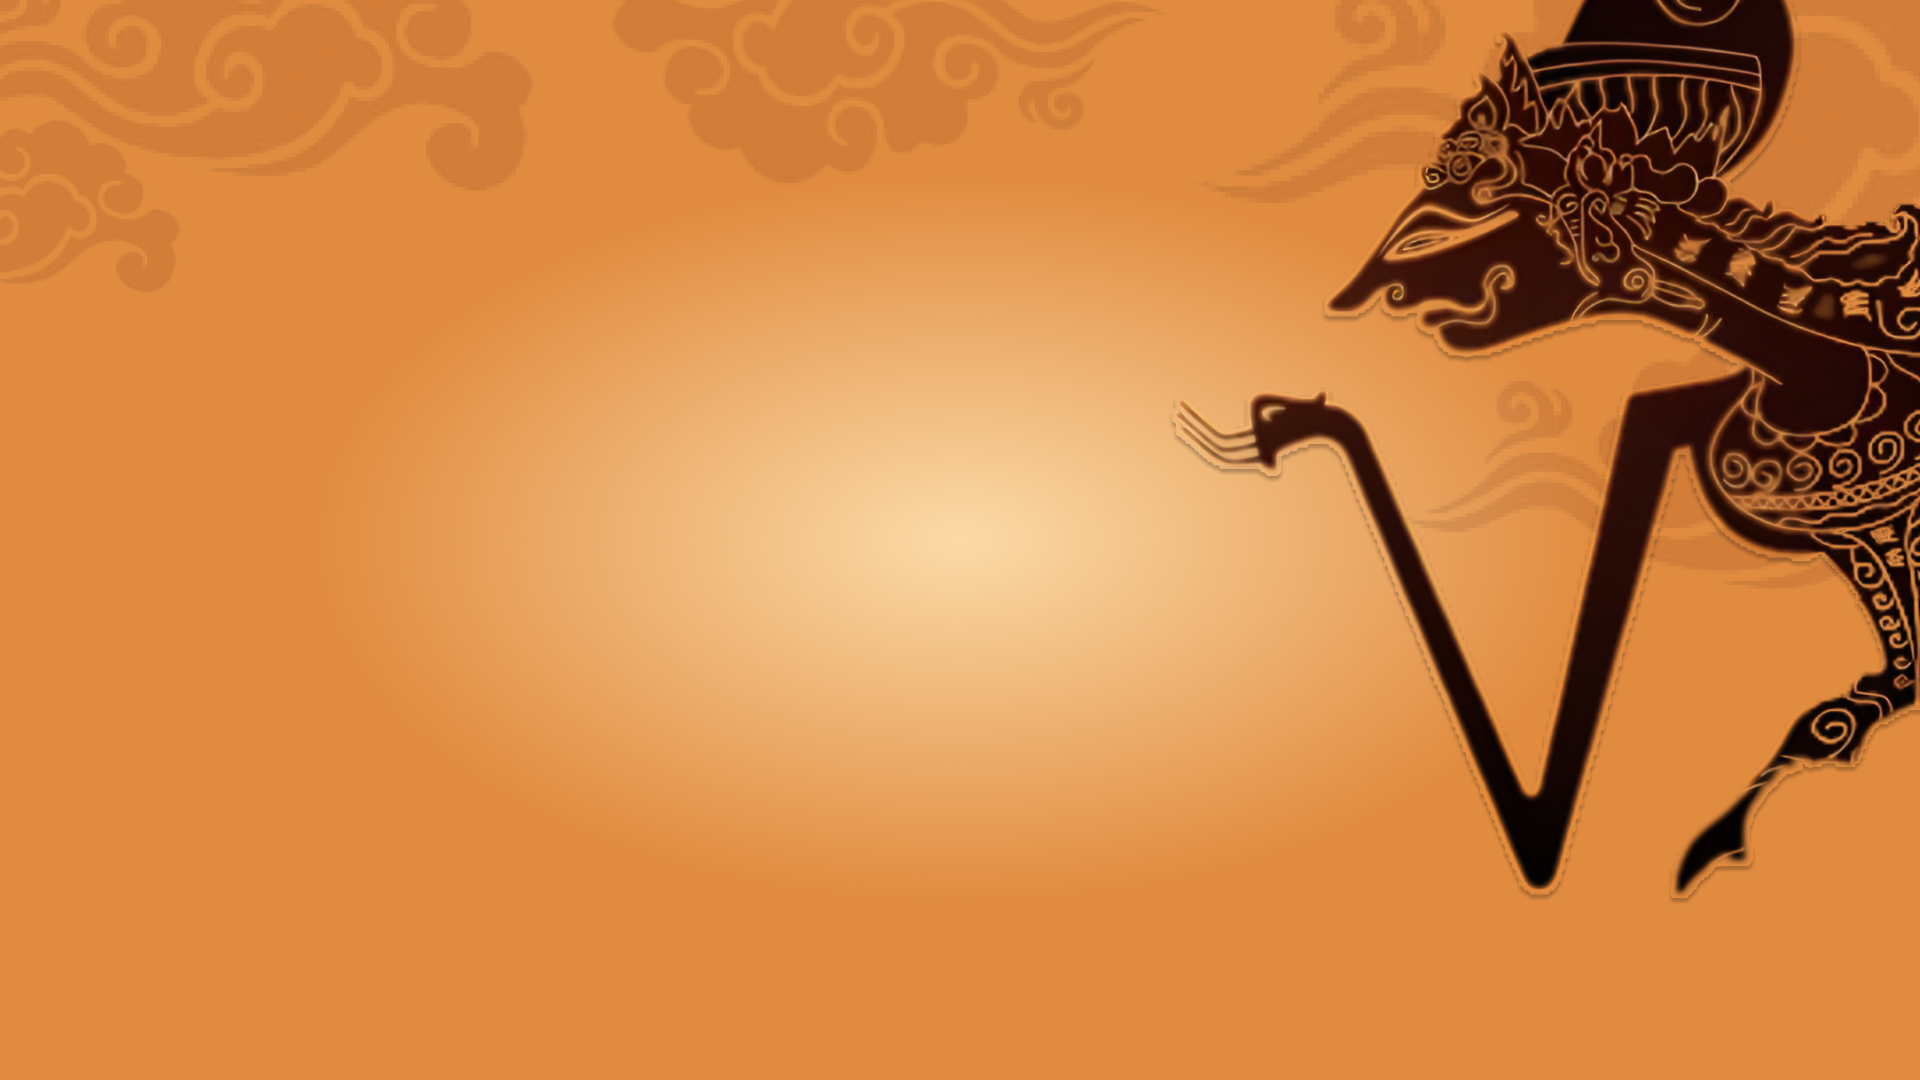
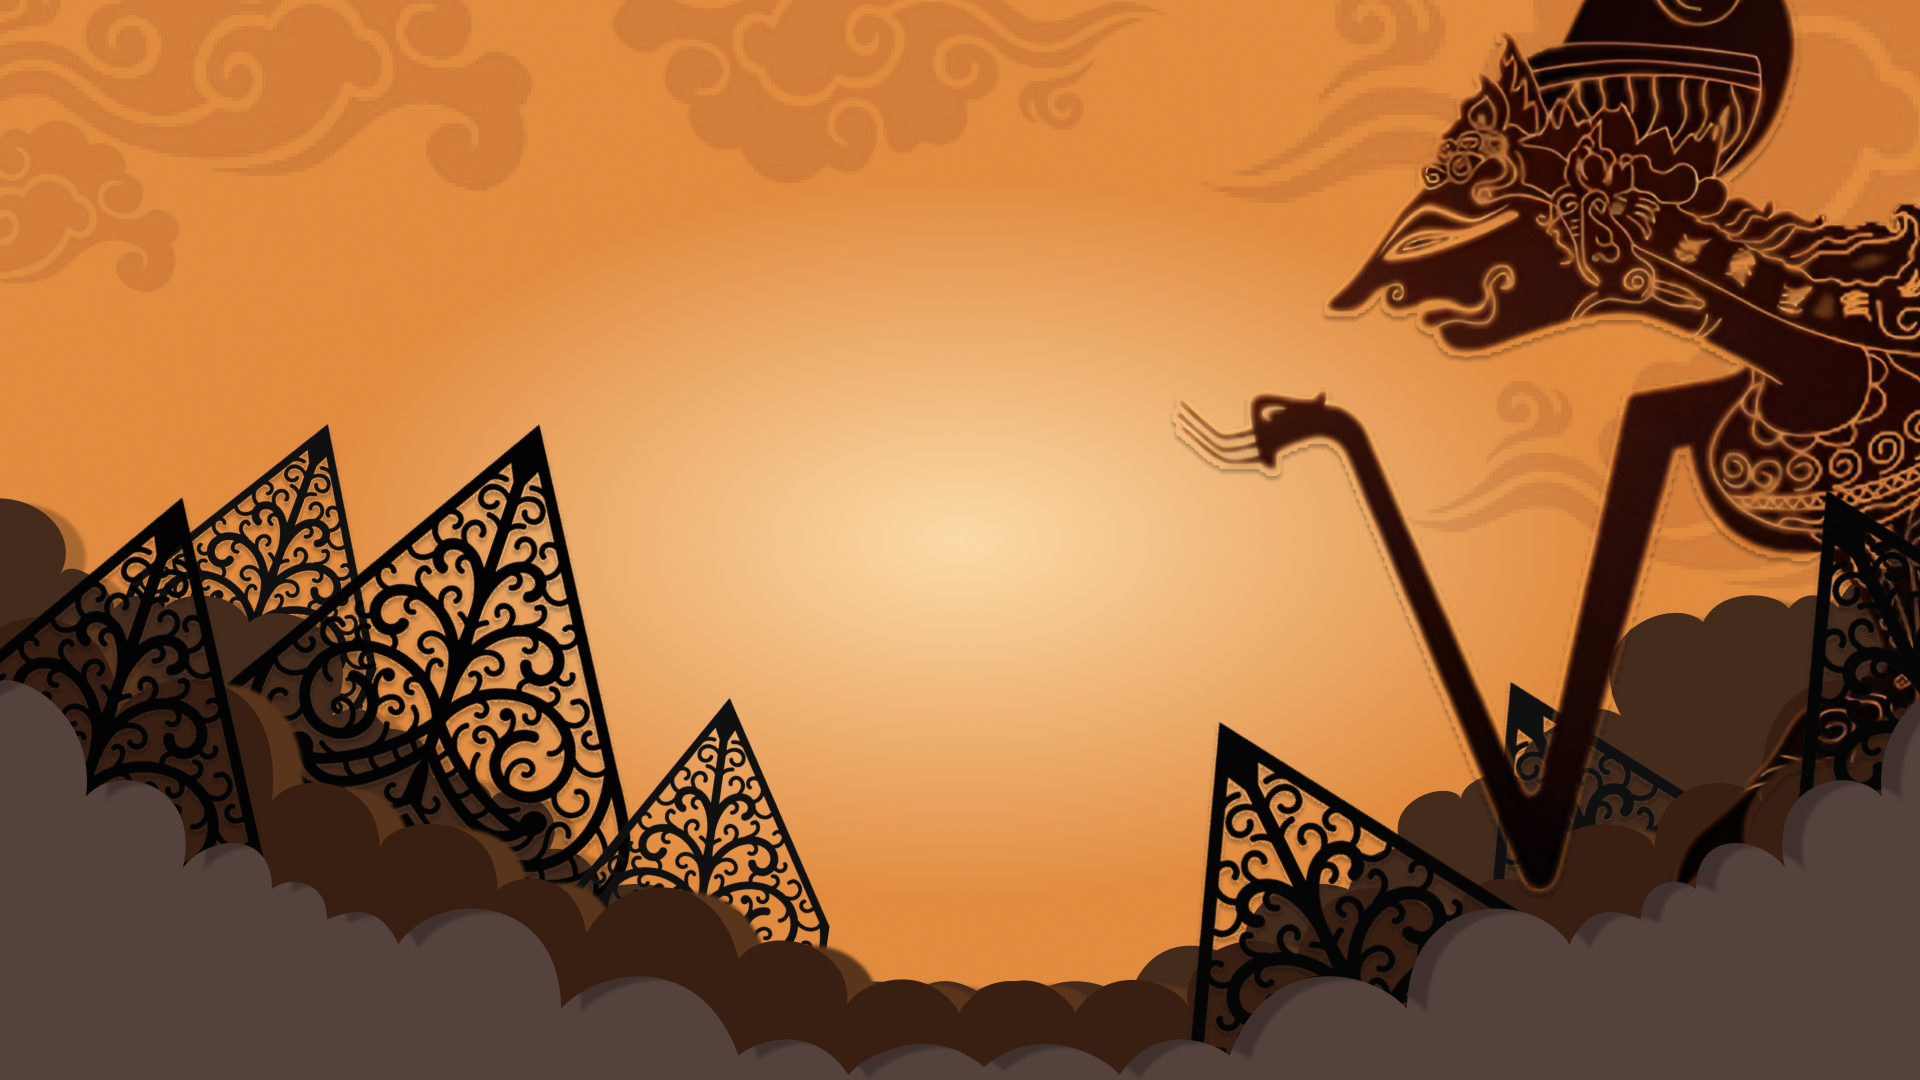
memperbaiki code

diff --git a/index.html b/index.html
@@ -9,19 +9,15 @@
   </head>
   <body>
     <!-- Hero Image -->
-    <div id="hero" class="container-fluid">
-      <div class="row position-absolute bottom-50 start-50 translate-middle-x">
-        <div class="col">
-          <div class="title text-center ms-5">
-            <p>Pesona <br>Warisan</p>
+    <div id="hero" class="d-flex align-items-center justify-content-center text-center">
+      <div class="mask-container">
+        <div class="row">
+          <div class="col">
+            <div class="title">
+              <p>Pesona <br> Warisan</p>
+            </div>
           </div>
         </div>
-      </div>
-      <div id="awan" class="row position-absolute bottom-0 start-50 translate-middle-x">
-        <div class="awan3 position-absolute bottom-0 translate-middle-x start-50">
-        </div>
-        <div class="awan2 position-absolute bottom-0 translate-middle-x start-50"></div>
-        <div class="awan1 position-absolute bottom-0 translate-middle-x start-50"></div>
       </div>
     </div>
     <!-- Akhir Hero Image -->
@@ -47,9 +43,7 @@
         </div>
       </div>
     </nav>
-    <div id="tentang" class="container-fluid">
-
-    </div>
+    <div id="tentang" class="container-fluid"></div>
     <!-- Akhir Navbar -->
     <!-- Script JS -->
     <script src="https://code.jquery.com/jquery-3.7.0.slim.js" integrity="sha256-7GO+jepT9gJe9LB4XFf8snVOjX3iYNb0FHYr5LI1N5c=" crossorigin="anonymous"></script>

diff --git a/style.css b/style.css
@@ -9,43 +9,33 @@ body{
 
 #hero{
     height: 100vh;
-    background-image: url(img/heroImage.png);
+    width: 100%;
+    background-image: url(img/heroImage.png); 
     background-size: cover;
-    background-attachment: fixed
+    overflow: hidden;
+}
+
+#hero .mask-container{
+    position: absolute;
+    /* background-color: salmon; */
+    inset: 0;
+    -webkit-mask-image: url(img/mask-hero.svg);
+    -webkit-mask-size: cover;
 }
 .title{
-    font-size: 95px;
+    width: 100%;
+    position: fixed;
+    font-size: 80px;
+    text-align: center;
+    left: 5vh;
+    top: 30vh;
     font-family: 'Roboto Slab';
     color: #290A06;
-    line-height: 70px;
-    text-shadow: 5px 5px rgba(0, 0, 0, 0.25);
+    line-height: 65px;
+    text-shadow: 3px 2px rgba(0, 0, 0, 0.25);
 }
-#awan{
-    height: 100%;
-    width: 100%;
-    margin: 0;
-    padding: 0;
-}
- .awan3{
-    height: 50vh;
-    background-image: url(img/Awan3.png);
-    background-size: cover;
-}
-
-.awan2{
-    height: 50vh;
-    background-image: url(img/Awan2.png);
-    background-size: cover;
-}
-
-.awan1{
-    height: 50vh;
-    background-image: url(img/Awan1.png);
-    background-size: cover;
-}
-
 .bg-jawa{
-    background-color: #55423D !important;
+    background-color: #55423D !important; 
 }
 .gunungan{
     float: left;

diff --git a/script.js b/script.js
@@ -1,5 +1,3 @@
 $(window).scroll(function(){
     var wScroll = $(this).scrollTop();
-
-    console.log(wScroll);
 })
